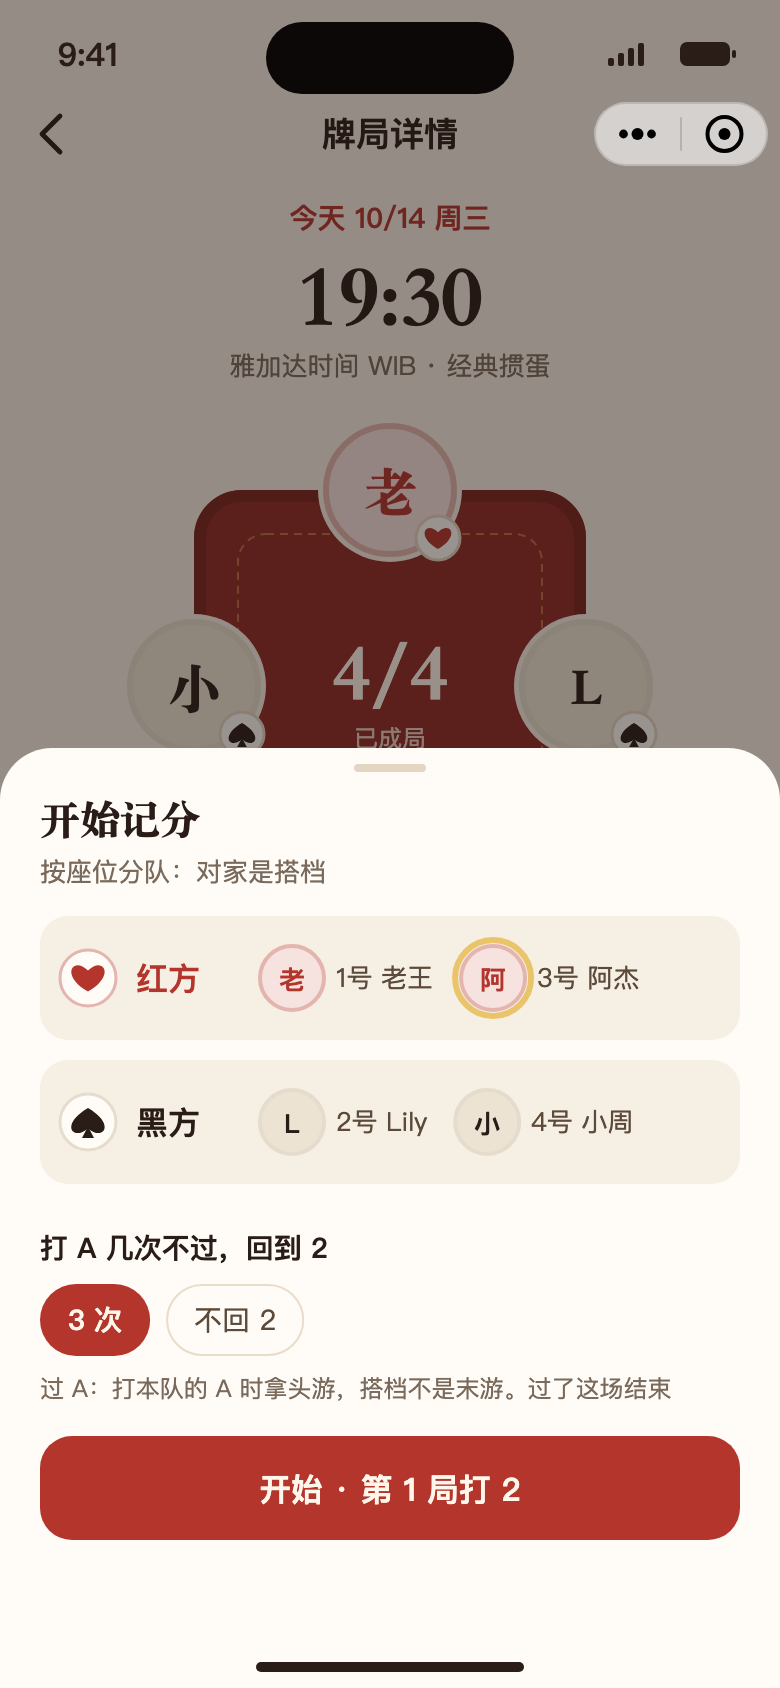
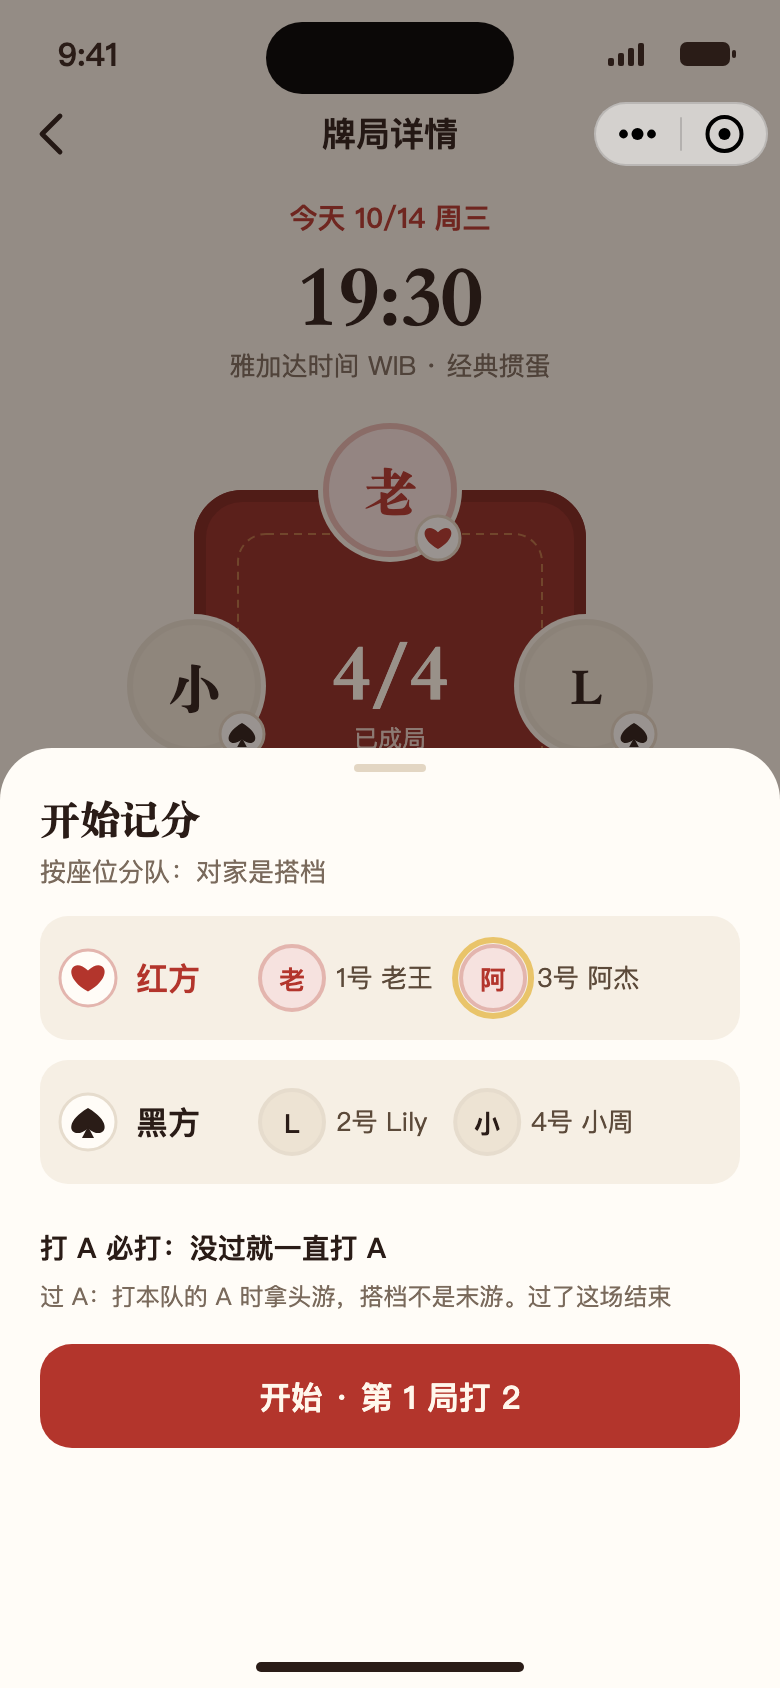
impl: #215 复审：打 A 失败那句改准；设计稿里的「回到 2」清掉
阻塞的一条：「没过几次只记着，下一局还打 A，级数不动」——「下一局还打 A」只在本队上游、
搭档下游时成立。对方拿上游时，按第二条 14 级牌是上一副牌上游那一队升到的级，
下一局打的是**对方的级**。#212 的计分就是这么算的（预览写「红方没过 A · 黑方 2 → 4 ·
已没过 1 次 · 下一局打 4」），学牌页文件头又说和计分同一套口径，两边对不上。

改成：「A 级必打：本队停在 A，打到过为止（第二条 13）。没过几次只记着；下一局打谁的级
照常看上一局谁是上游，轮到打本队的级时还打 A（本队上游、搭档下游那种没过，下一局确实还打 A；
对方上游时下一局打对方升到的级）。」

不阻塞两条也顺手改了：
- 「这一课里还按大家习惯的叫法」→「下面各课还按大家习惯的叫法」（九课都用头游 / 末游）。
- tip 的「赢了」写准：「打本队的 A 要拿上游、而且搭档不是末游才算过」。

另外把 #205 的收尾一起做掉（这个 PR 写的是 Fixes #205，合并后 issue 会自动关掉）：
`design/guandan-minigame/prototype.html` 里 S2 的约定和两个 chip（第 1038、1063、1065 行）、
S7 的说明和预览（第 1097、1100 行）还写着「打 A 几次不过回到 2」。S2 那一段缓存换成
一行「打 A 必打：没过就一直打 A」，S7 的预览改成只报次数；S2 / S7 的说明文字同步。
重新跑 `sh design/guandan-minigame/shoot.sh`：只有 S2.png 和 S7.png 变了（其余 21 张逐字节一样）。

`design/guandan-minigame/README.md` 里那三处「回到 2」由 #212 在 main 上改掉了
（现在是「A 必打……没有『几次不过回到 2』这个约定」），这个分支不用再动。

验证：`app/h5` 的 vitest 375 条全过、`tsc --noEmit` 干净；小游戏侧 import 这份文案，
`npm test` 108 条全过。

Changed region(s): [[0.0308, 0.7085, 0.9538, 0.9242]]

diff --git a/app/h5/src/learn.ts b/app/h5/src/learn.ts
@@ -71,7 +71,7 @@ export const LESSONS: Lesson[] = [
     sections: [
       {
         title: "四人两队",
-        body: "两副牌共 108 张（含 4 张王），四人围坐，对家为搭档，每人 27 张。最先出完的叫头游，接着是二游、三游、末游（规则里依次叫上游、二游、三游、下游，第二条 10）。这一课里还按大家习惯的叫法。目标是让本队两人都尽量靠前。",
+        body: "两副牌共 108 张（含 4 张王），四人围坐，对家为搭档，每人 27 张。最先出完的叫头游，接着是二游、三游、末游（规则里依次叫上游、二游、三游、下游，第二条 10）。下面各课还按大家习惯的叫法。目标是让本队两人都尽量靠前。",
       },
       {
         title: "级牌与逢人配",
@@ -320,10 +320,10 @@ export const LESSONS: Lesson[] = [
       },
       {
         title: "打 A 失败",
-        body: "A 级必打：没过就一直打 A，打到过为止（第二条 13）。没过几次只记着，下一局还打 A，级数不动。",
+        body: "A 级必打：本队停在 A，打到过为止（第二条 13）。没过几次只记着；下一局打谁的级照常看上一局谁是上游，轮到打本队的级时还打 A（本队上游、搭档下游那种没过，下一局确实还打 A；对方上游时下一局打对方升到的级）。",
       },
     ],
-    tip: "打 A 之前先看清是打哪一队的 A：只有打本队的 A 赢了才算过，打对方的级时赢了只是照常升级。",
+    tip: "打 A 之前先看清是打哪一队的 A：打本队的 A 要拿上游、而且搭档不是末游才算过；打对方的级时赢了只是照常升级。",
     quiz: {
       question: "打 A 这一局，你头游、搭档末游，算过 A 吗？",
       options: ["算", "不算", "看对手", "再打一局决定"],
